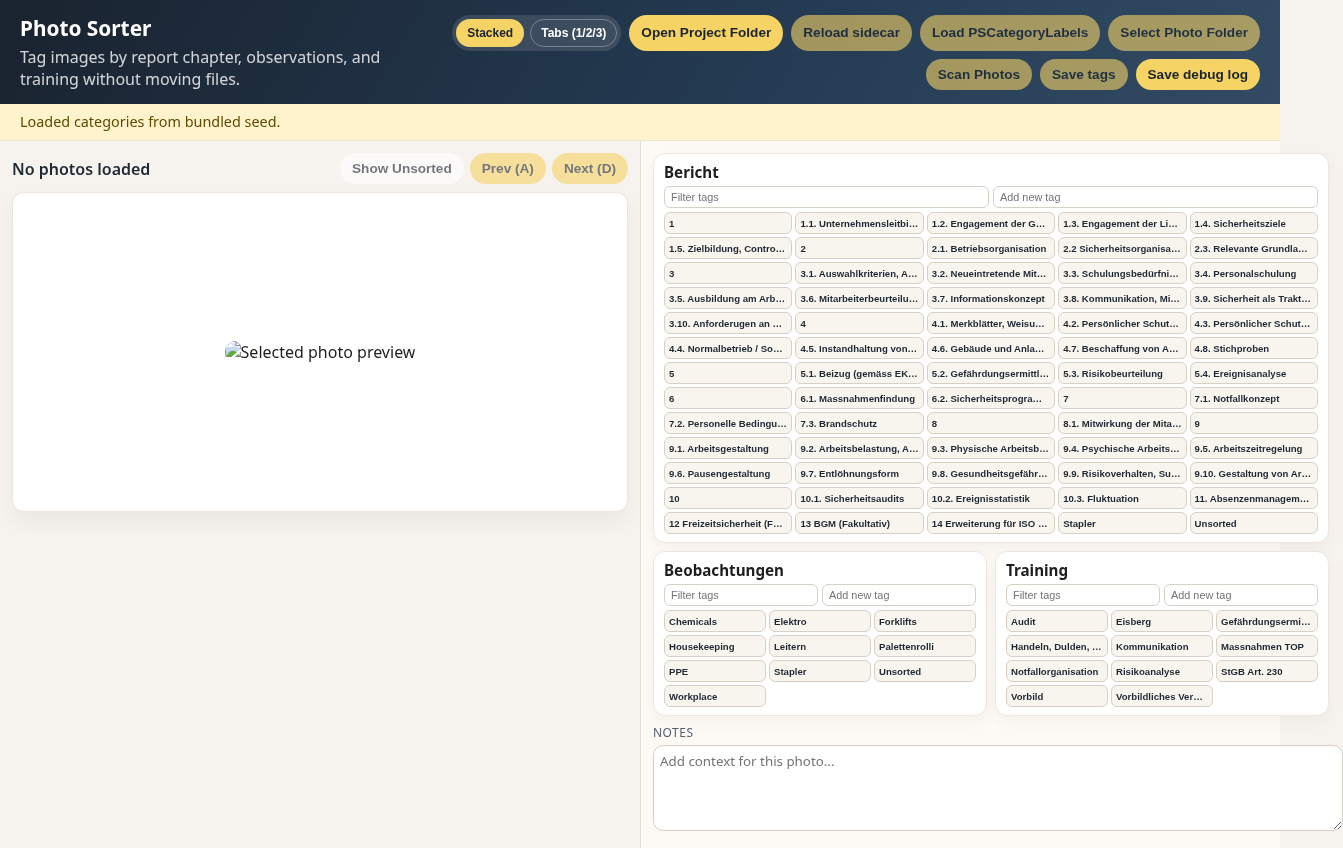
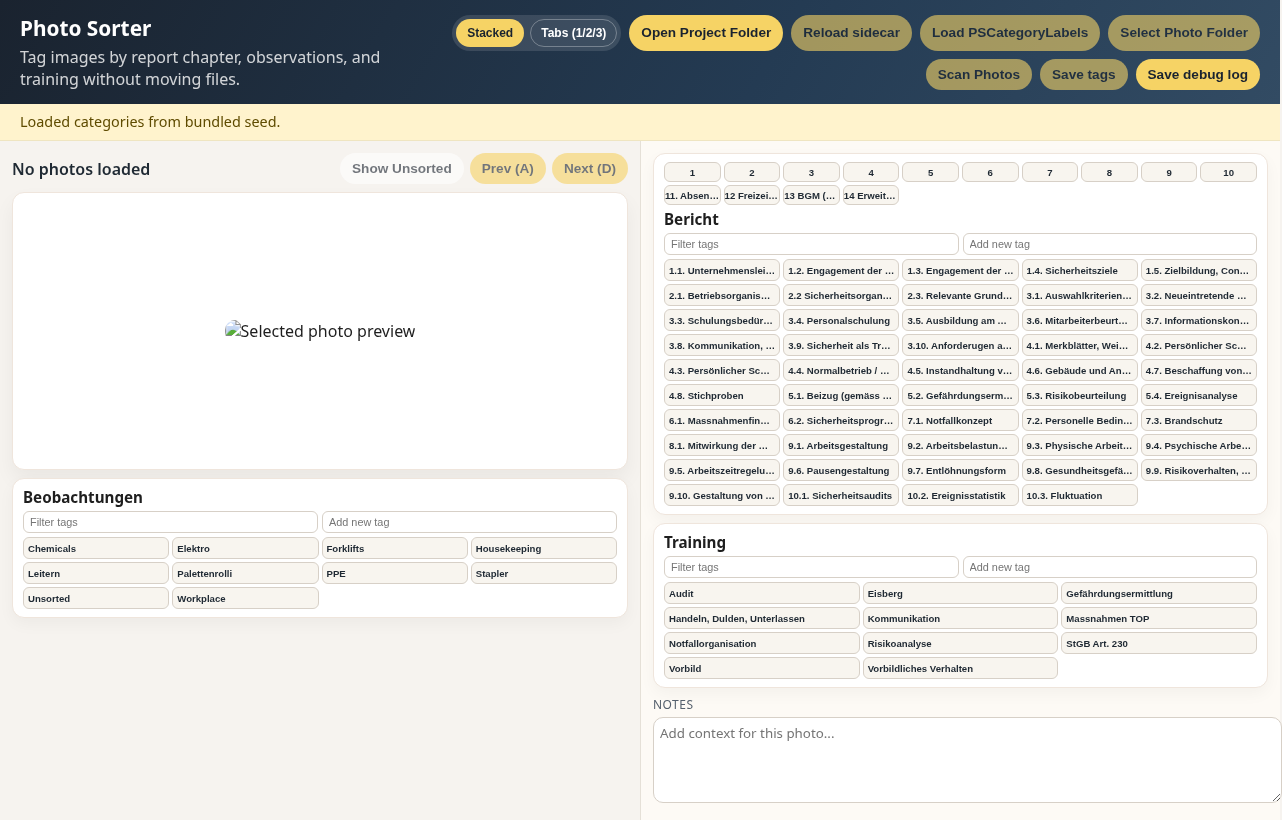
Move observations under photo and clean report tags

diff --git a/AutoBericht/mini/photosorter.js b/AutoBericht/mini/photosorter.js
@@ -331,6 +331,20 @@
     });
   };
 
+  const splitChapterOptions = (options) => {
+    const chapters = [];
+    const rest = [];
+    options.forEach((option) => {
+      const value = String(option.value || "");
+      if (isNumericTag(value) && !value.includes(".")) {
+        chapters.push(option);
+      } else {
+        rest.push(option);
+      }
+    });
+    return { chapters, rest };
+  };
+
   const renderTagPanel = (group, config) => {
     const container = panels[group];
     if (!container) return;
@@ -372,15 +386,39 @@
 
     controls.append(filterInput, addInput);
 
+    const current = getCurrentPhoto();
+    const selected = new Set(current?.tags?.[group] || []);
+    const filteredOptions = (state.tagOptions?.[group] || [])
+      .filter((option) => option.label.toLowerCase().includes((config.filter || "").toLowerCase()));
+
+    const { chapters, rest } = config.splitChapters
+      ? splitChapterOptions(filteredOptions)
+      : { chapters: [], rest: filteredOptions };
+
+    if (config.splitChapters) {
+      const chapterRow = document.createElement("div");
+      chapterRow.className = "panel__chapters";
+      chapters.forEach((option) => {
+        const button = document.createElement("button");
+        button.type = "button";
+        button.className = "tag-button tag-button--chapter";
+        button.textContent = option.label;
+        button.title = option.label;
+        if (selected.has(option.value)) {
+          button.classList.add("active");
+        }
+        button.addEventListener("click", () => {
+          toggleTag(group, option.value);
+        });
+        chapterRow.appendChild(button);
+      });
+      container.append(chapterRow);
+    }
+
     const tagsEl = document.createElement("div");
     tagsEl.className = "panel__tags";
 
-    const current = getCurrentPhoto();
-    const selected = new Set(current?.tags?.[group] || []);
-    const options = (state.tagOptions?.[group] || [])
-      .filter((option) => option.label.toLowerCase().includes((config.filter || "").toLowerCase()));
-
-    options.forEach((option) => {
+    rest.forEach((option) => {
       const button = document.createElement("button");
       button.type = "button";
       button.className = "tag-button";
@@ -403,6 +441,7 @@
       title: "Bericht",
       description: "Kapitel & Unterkapitel (1.x / 1.2 / 4.8 etc.)",
       filter: state.tagFilters.report,
+      splitChapters: true,
     });
     renderTagPanel("observations", {
       title: "Beobachtungen",
@@ -571,9 +610,10 @@
 
     const reportOptions = reportLabels.map((label) => {
       const match = label.match(/^\\d+(?:\\.\\d+)*(?:\\.)?/);
-      const value = match ? match[0].replace(/\\.$/, "") : label;
+      if (!match) return null;
+      const value = match[0].replace(/\\.$/, "");
       return { value, label };
-    });
+    }).filter(Boolean);
 
     return {
       report: reportOptions,

diff --git a/AutoBericht/mini/photosorter.css b/AutoBericht/mini/photosorter.css
@@ -144,8 +144,12 @@ button[disabled] {
   align-items: center;
   justify-content: center;
   box-shadow: 0 10px 20px rgba(0, 0, 0, 0.05);
-  height: 42vh;
+  height: 34vh;
   min-height: 260px;
+}
+
+.viewer__observations {
+  min-height: 0;
 }
 
 .viewer__image img {
@@ -192,13 +196,6 @@ button[disabled] {
   border-left: 1px solid #e5e0d7;
   display: grid;
   grid-template-rows: auto 1fr auto;
-  gap: 8px;
-  min-height: 0;
-}
-
-.panel-row {
-  display: grid;
-  grid-template-columns: 1fr 1fr;
   gap: 8px;
   min-height: 0;
 }
@@ -267,8 +264,19 @@ button[disabled] {
   overflow: hidden;
 }
 
+.panel__chapters {
+  display: grid;
+  grid-template-columns: repeat(10, minmax(0, 1fr));
+  gap: 3px;
+  margin-bottom: 4px;
+}
+
 .panel--report .panel__tags {
   grid-template-columns: repeat(5, 1fr);
+}
+
+.panel--observations .panel__tags {
+  grid-template-columns: repeat(4, 1fr);
 }
 
 .tag-button {
@@ -285,6 +293,13 @@ button[disabled] {
   white-space: nowrap;
   overflow: hidden;
   text-overflow: ellipsis;
+}
+
+.tag-button--chapter {
+  text-align: center;
+  padding: 2px 0;
+  min-height: 20px;
+  font-weight: 600;
 }
 
 .tag-button.active {
@@ -333,8 +348,8 @@ body.layout-tabs .panel__tags {
   grid-template-columns: repeat(3, 1fr);
 }
 
-body.layout-tabs .panel-row {
-  display: contents;
+body.layout-tabs .viewer__observations {
+  display: none;
 }
 
 body.layout-stacked .panel-tabs {

diff --git a/AutoBericht/mini/photosorter.html b/AutoBericht/mini/photosorter.html
@@ -43,6 +43,9 @@
         <div class="viewer__image">
           <img id="photo-image" alt="Selected photo preview" />
         </div>
+        <div class="viewer__observations">
+          <div class="panel panel--observations" id="panel-observations"></div>
+        </div>
         <div class="viewer__thumbs" id="thumbs"></div>
       </section>
 
@@ -54,10 +57,7 @@
         </div>
 
         <div class="panel panel--report" id="panel-report"></div>
-        <div class="panel-row">
-          <div class="panel panel--observations" id="panel-observations"></div>
-          <div class="panel panel--training" id="panel-training"></div>
-        </div>
+        <div class="panel panel--training" id="panel-training"></div>
 
         <div class="notes">
           <label for="photo-notes">Notes</label>

diff --git a/AutoBericht/mini/pscategorylabels.seed.js b/AutoBericht/mini/pscategorylabels.seed.js
@@ -2,17 +2,13 @@
 window.PS_CATEGORY_LABELS_META = {
   "sourceWorkbook": "2025-07-10 AutoBericht v0 Berichtform report selectors.xlsx",
   "sheet": "PSCategoryLabels",
-  "generatedAt": "2026-01-05T14:26:46.158Z"
+  "generatedAt": "2026-01-05T15:01:47.388Z"
 };
 window.PS_CATEGORY_LABELS_SEED = {
   "report": [
     {
       "value": "1",
       "label": "1 Leitbild, Sicherheitsziele und Strategien"
-    },
-    {
-      "value": "Unsorted",
-      "label": "Unsorted"
     },
     {
       "value": "1.1",
@@ -33,10 +29,6 @@ window.PS_CATEGORY_LABELS_SEED = {
     {
       "value": "1.3",
       "label": "1.3. Engagement der Linienvorgesetzten"
-    },
-    {
-      "value": "Stapler",
-      "label": "Stapler"
     },
     {
       "value": "1.4",

diff --git a/tools/extract_pscategorylabels.js b/tools/extract_pscategorylabels.js
@@ -28,9 +28,10 @@ const parsePSCategoryLabels = (rows) => {
 
   const reportOptions = reportLabels.map((label) => {
     const match = label.match(/^\d+(?:\.\d+)*(?:\.)?/);
-    const value = match ? match[0].replace(/\.$/, "") : label;
+    if (!match) return null;
+    const value = match[0].replace(/\.$/, "");
     return { value, label };
-  });
+  }).filter(Boolean);
 
   const toUnique = (options) => {
     const seen = new Set();
